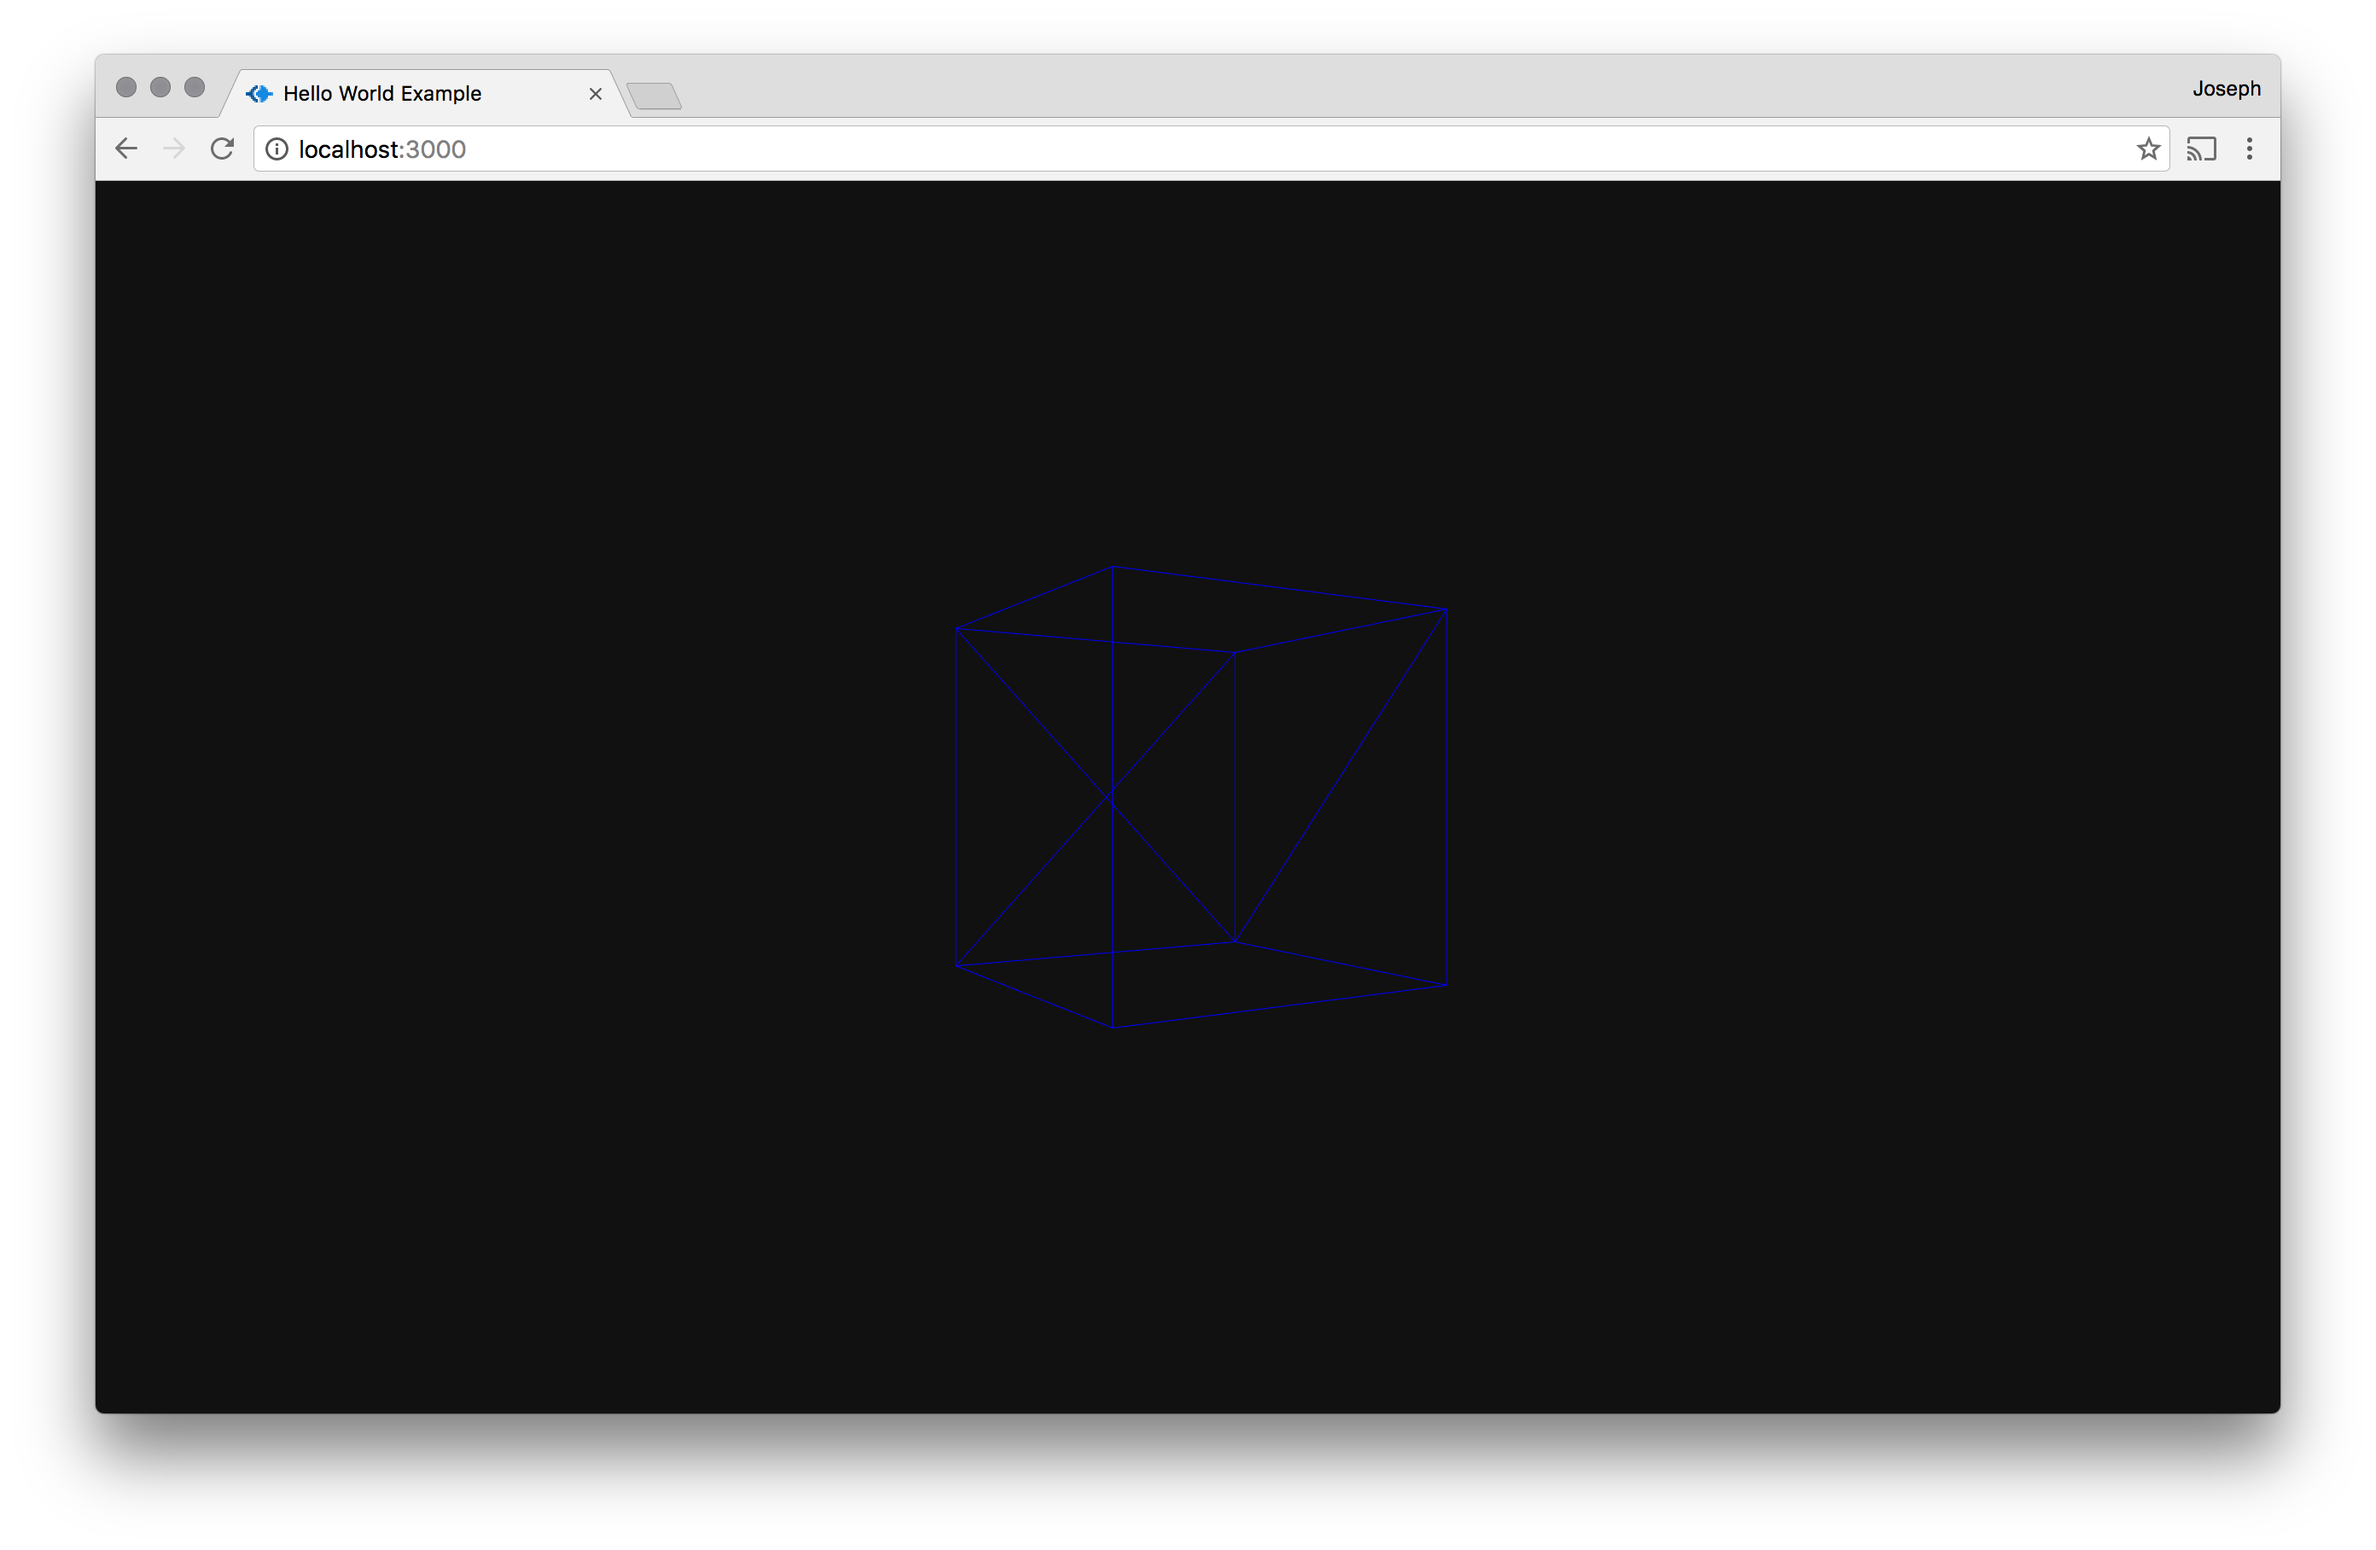
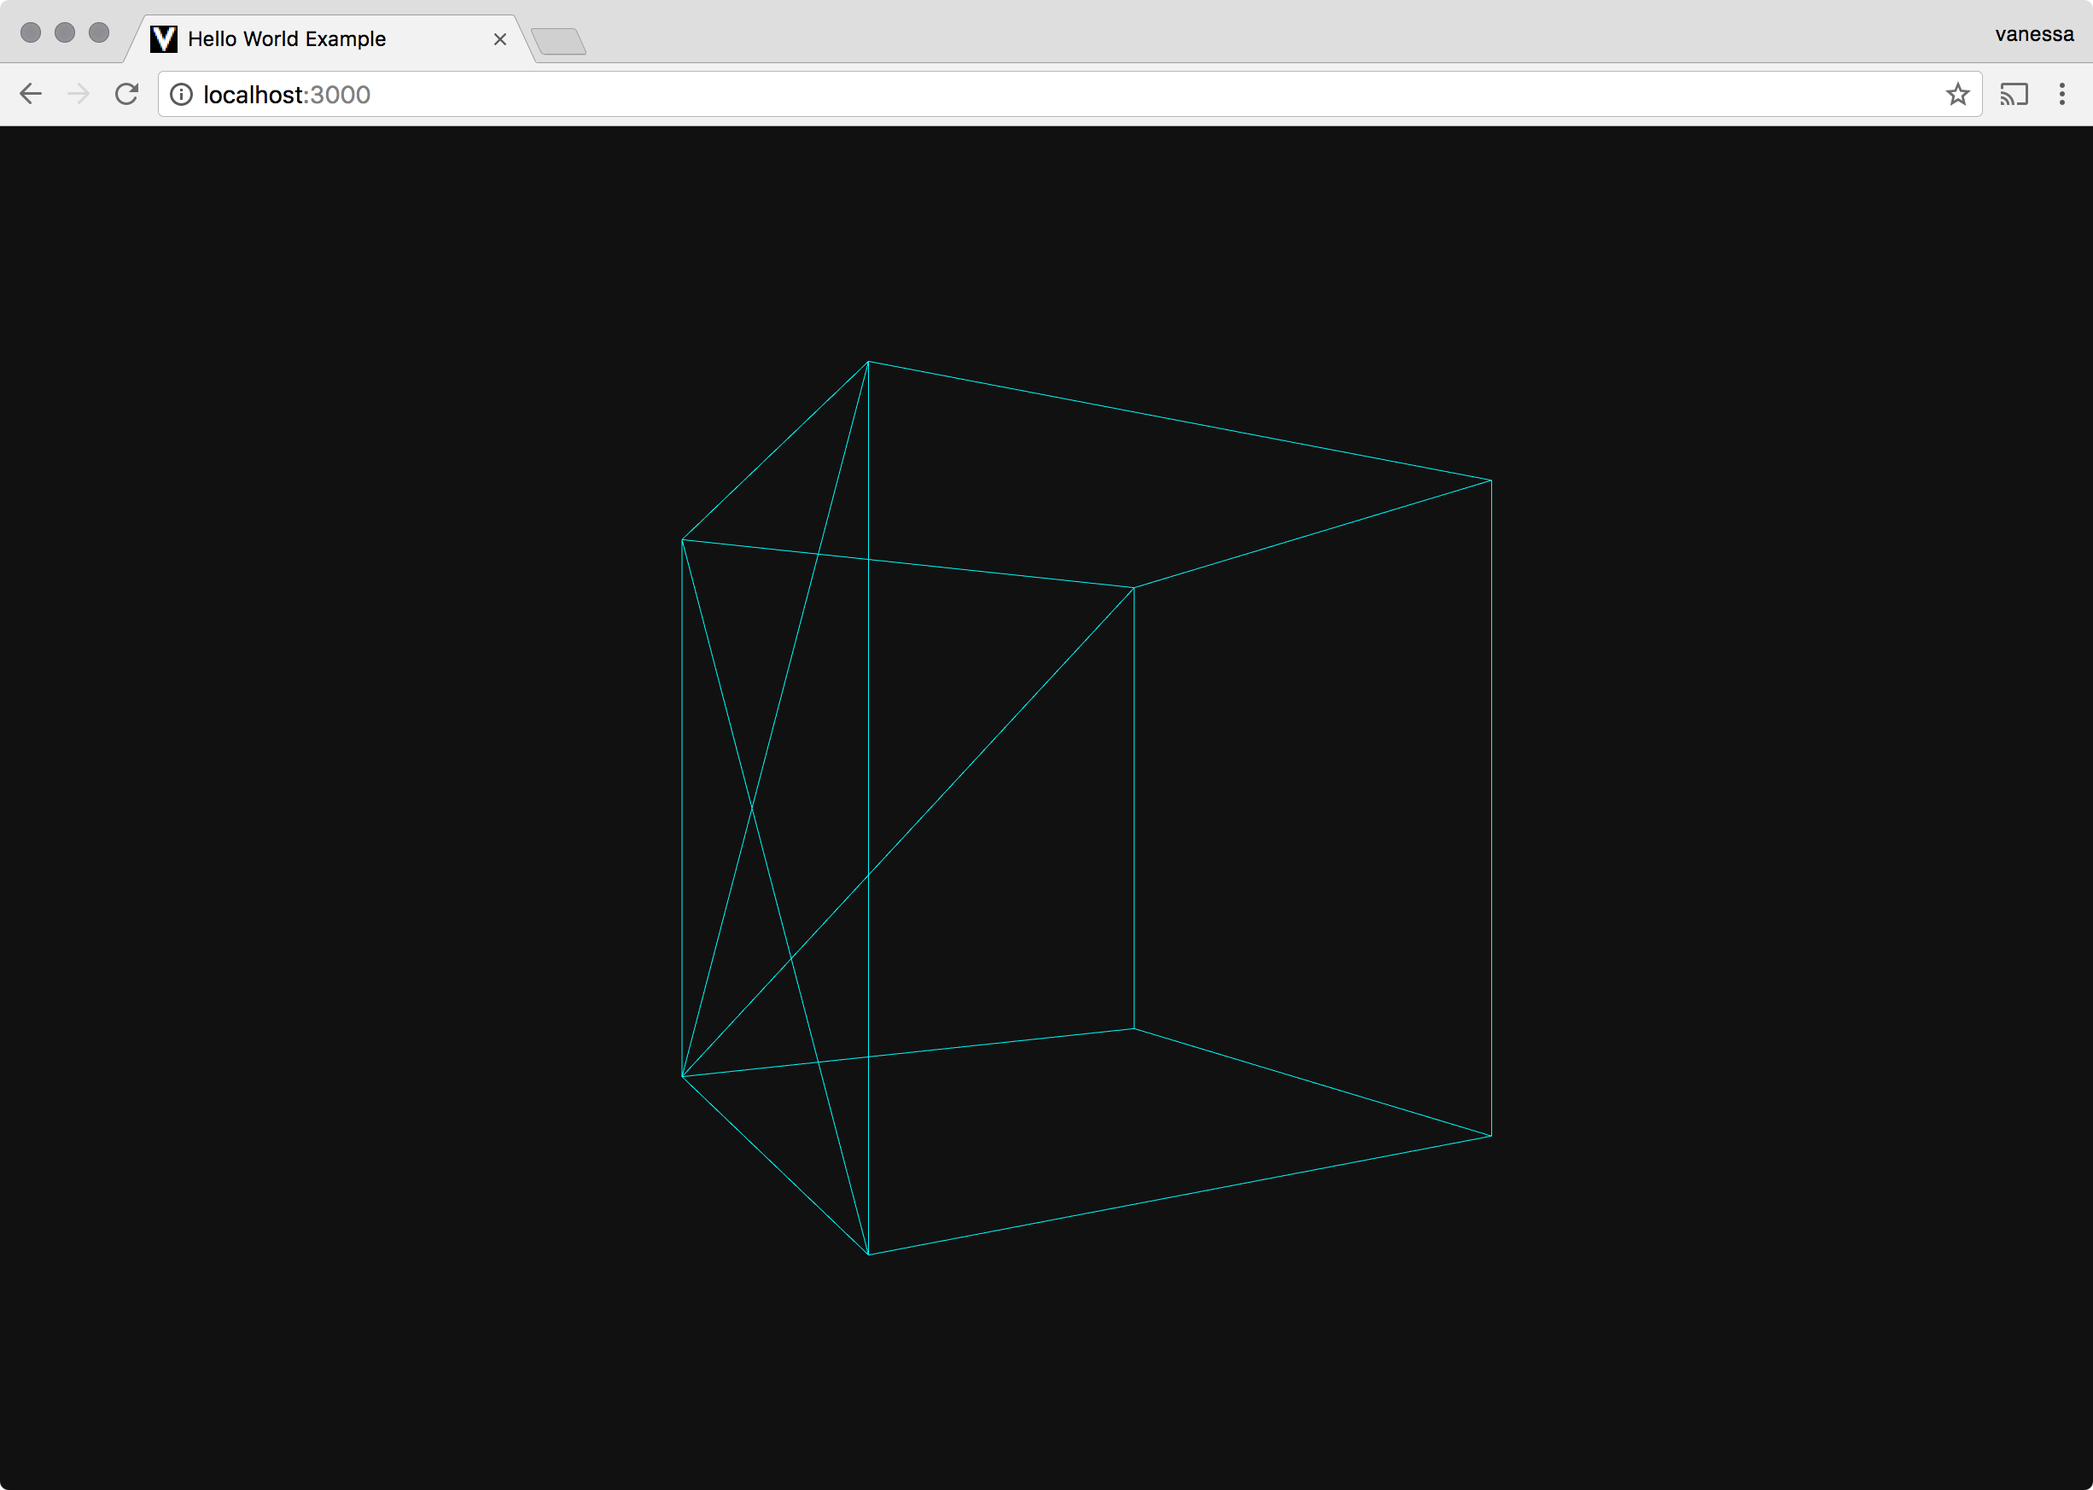
update hello world example code and READMEs

diff --git a/example/hello-world/index.js b/example/hello-world/index.js
@@ -14,7 +14,7 @@ import quat from 'gl-quat'
 const ctx = Context()
 
 const material = FlatMaterial(ctx)
-const camera = Camera(ctx, {position: [0, 0, 3]})
+const camera = Camera(ctx, {position: [0, 0, 2]})
 const frame = Frame(ctx)
 const box = Mesh(ctx, { geometry: BoxGeometry(ctx) })
 
@@ -25,7 +25,7 @@ frame(({time}) => {
   quat.setAxisAngle(angle, [0, 1, 0], 0.5*time)
   quat.slerp(rotation, rotation, angle, 0.01)
   camera({rotation}, () => {
-    material({color: [0, 0, 1, 1]}, () => {
+    material({color: [0, 1, 1, 1]}, () => {
       box({wireframe: true})
     })
   })

diff --git a/README.md b/README.md
@@ -16,7 +16,7 @@ information on how to install Axis3D into your project.
 # Example
 
 The following [hello world example](doc/hello-world.md) demonstrates rendering a
-blue triangle to the screen. A `canvas` is created with a `webgl` context and
+green box to the screen. A `canvas` is created with a `webgl` context and
 automatically appended to the `body` DOM element.
 
 <table>
@@ -41,7 +41,7 @@ import quat from 'gl-quat'
 const ctx = Context()
 
 const material = FlatMaterial(ctx)
-const camera = Camera(ctx, {position: [0, 0, 3]})
+const camera = Camera(ctx, {position: [0, 0, 2]})
 const frame = Frame(ctx)
 const box = Mesh(ctx, { geometry: BoxGeometry(ctx) })
 
@@ -52,7 +52,7 @@ frame(({time}) => {
   quat.setAxisAngle(angle, [0, 1, 0], 0.5*time)
   quat.slerp(rotation, rotation, angle, 0.01)
   camera({rotation}, () => {
-    material({color: [0, 0, 1, 1]}, () => {
+    material({color: [0, 1, 1, 1]}, () => {
       box({wireframe: true})
     })
   })

diff --git a/doc/hello-world.md b/doc/hello-world.md
@@ -1,7 +1,7 @@
 Hello World
 ===========
 
-The following hello world example demonstrates rendering a blue triangle
+The following hello world example demonstrates rendering a green box
 to the screen. A `canvas` is created with a `webgl` context and
 automatically appended to the `body` DOM element.
 
@@ -22,7 +22,7 @@ import quat from 'gl-quat'
 const ctx = Context()
 
 const material = FlatMaterial(ctx)
-const camera = Camera(ctx, {position: [0, 0, 3]})
+const camera = Camera(ctx, {position: [0, 0, 2]})
 const frame = Frame(ctx)
 const box = Mesh(ctx, { geometry: BoxGeometry(ctx) })
 
@@ -33,7 +33,7 @@ frame(({time}) => {
   quat.setAxisAngle(angle, [0, 1, 0], 0.5*time)
   quat.slerp(rotation, rotation, angle, 0.01)
   camera({rotation}, () => {
-    material({color: [0, 0, 1, 1]}, () => {
+    material({color: [0, 1, 1, 1]}, () => {
       box({wireframe: true})
     })
   })

diff --git a/doc/getting-started.md b/doc/getting-started.md
@@ -31,7 +31,7 @@ $ yarn add axis3d
 # <a name="hello-world"></a> Hello World
 
 The following [hello world example](hello-world.md) demonstrates rendering a
-blue triangle to the screen. A `canvas` is created with a `webgl` context and
+green box to the screen. A `canvas` is created with a `webgl` context and
 automatically appended to the `body` DOM element.
 
 <table>
@@ -42,7 +42,7 @@ automatically appended to the `body` DOM element.
 <pre lang="js">
 frame(({time}) => {
   camera({rotation}, () => {
-    material({color: [0, 0, 1, 1]}, () => {
+    material({color: [0, 1, 1, 1]}, () => {
       box()
     })
   })
